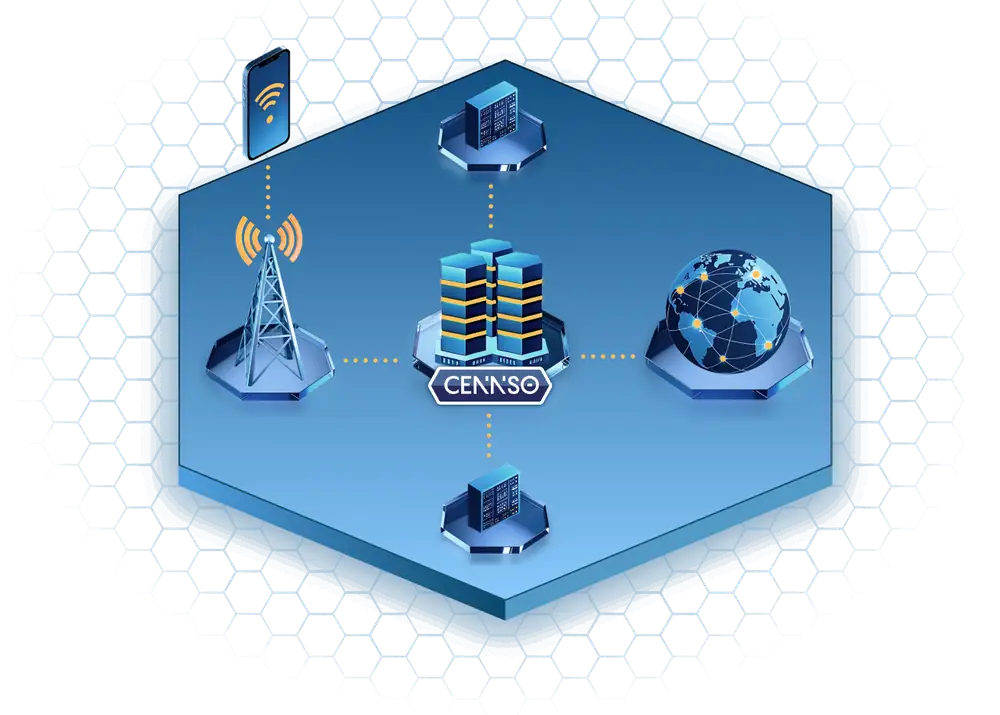
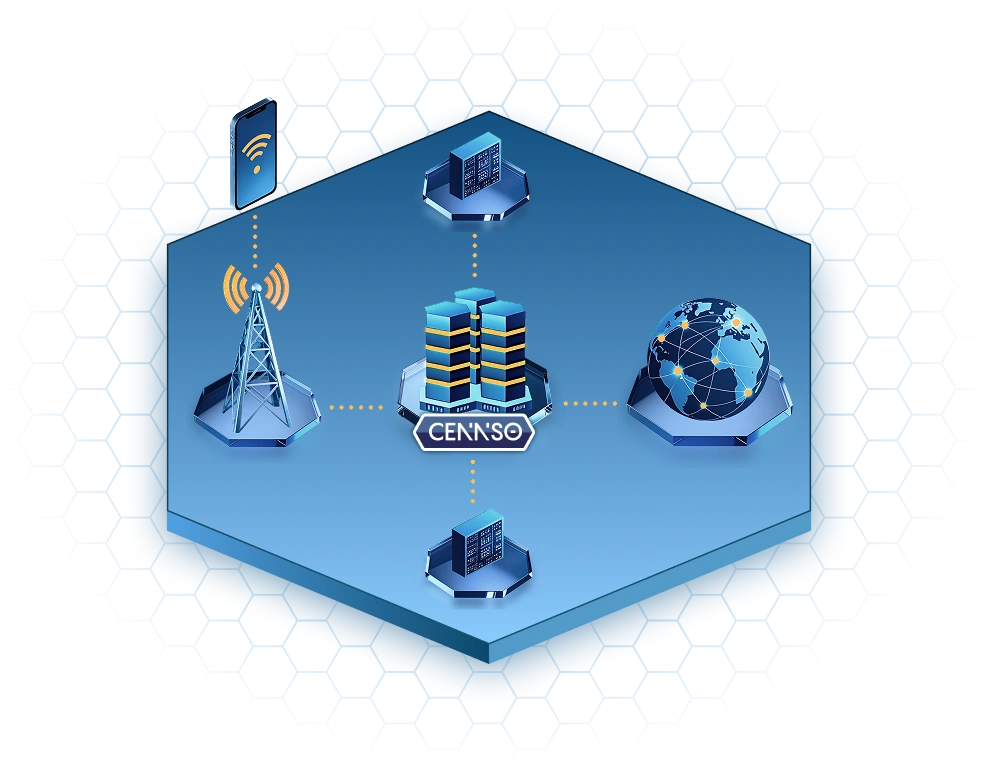
feat: success story headers, nav weight, marquee loop fix
- Logo marquee: track keeps its full width (no flex shrink), so the -50%
  loop is exactly one copy; eager-loaded, fixed-size logos; 90s duration
  keeps the previous on-screen speed
- Header nav items and Sign In in Poppins Regular; light-mode header glow
- Success stories: banner illustration in every story header (20%
  narrower), text and image centred, smaller title, more space before the
  summary; no # anchor icon or hover underline on section titles
- "Join us now" CTA hovers amber like the other CTAs
- Updated hero, banner and story images

Claude-Session: https://claude.ai/code/session_01VGdahn5i6zpxhGjxHSLydx

diff --git a/components/Navigation.tsx b/components/Navigation.tsx
@@ -30,7 +30,7 @@ import type { NavigationLink } from '../contexts'
  */
 const NAV_CTA_CLASS = [
   'inline-flex h-9 items-center gap-[9px] rounded-btn border px-4',
-  'text-lg font-medium transition-colors',
+  'text-lg font-normal transition-colors',
   // Light: #185F99 fill and border, white label; #FF6D12 on hover (owner's
   // call). The label and chevron stay white on both.
   'border-[#185f99] bg-[#185f99] text-white',
@@ -72,9 +72,12 @@ export const Navigation: FunctionComponent<NavigationProps> = ({
     // Dark glow: copied 1:1 from cennso/cloud's TOPBAR_SURFACE (cloud-portal
     // and docs-portal chrome-surfaces.ts) - the same border-border/50 rule
     // under the bar and an ::after hung off its lower edge, one radial
-    // gradient of --glow-blue sourced at the middle of that edge. `relative`
+    // gradient of --glow-blue sourced at the middle of that edge. Light uses
+    // the same glow in #185F99 at 6% (owner's call: 10%, then 7%, then 15%
+    // lighter again). Over the #E1EAF0 page plate it peaks at ~#D6E3ED
+    // under the bar's centre. `relative`
     // makes this div the ::after's containing block.
-    <div className="relative flex flex-row justify-center w-full max-w-screen py-3 bg-white dark:bg-background shadow-none px-6 lg:px-4 dark:border-border/50 dark:border-b dark:after:pointer-events-none dark:after:absolute dark:after:inset-x-0 dark:after:top-full dark:after:h-8 dark:after:bg-[image:radial-gradient(50%_100%_at_50%_0%,hsl(var(--glow-blue)/0.30)_0%,transparent_70%)]">
+    <div className="relative flex flex-row justify-center w-full max-w-screen py-3 bg-white dark:bg-background shadow-none px-6 lg:px-4 dark:border-border/50 dark:border-b after:pointer-events-none after:absolute after:inset-x-0 after:top-full after:h-8 after:bg-[image:radial-gradient(50%_100%_at_50%_0%,rgb(24_95_153/0.06)_0%,transparent_70%)] dark:after:bg-[image:radial-gradient(50%_100%_at_50%_0%,hsl(var(--glow-blue)/0.30)_0%,transparent_70%)]!">
       <nav
         className={`flex flex-row items-center justify-between w-full ${CONTENT_MEASURE} py-2`}
       >
@@ -173,7 +176,7 @@ function topLevelClass(active: boolean): string {
         // (amber) in dark, as before. The 1px #1D75BC text-shadow glow is
         // dark-only: on the light bar it read as a blue outline.
         'text-foreground hover:text-[#ff6d12] dark:hover:text-primary! dark:hover:text-shadow-primary'
-  } xl:rounded-full text-lg font-medium font-sans`
+  } xl:rounded-full text-lg font-normal font-sans`
 }
 
 interface NavigationItemProps {
@@ -206,7 +209,7 @@ function buildChildItems(
   const items = (link.children ?? []).map((child) => (
     <li key={child.link}>
       {renderLeaf({
-        className: `flex items-center gap-3 text-foreground hover:text-primary-foreground! hover:bg-primary! rounded-none lg:rounded-[32px] font-normal lg:font-light text-lg py-1 ${
+        className: `flex items-center gap-3 text-foreground hover:text-primary-foreground! hover:bg-primary! rounded-none lg:rounded-[32px] font-normal text-lg py-1 ${
           asPath.startsWith(child.link)
             ? 'text-primary-foreground! bg-primary! lg:rounded-[32px]'
             : ''
@@ -296,6 +299,7 @@ const NavigationItem: FunctionComponent<NavigationItemProps> = ({
                     <li key={child.link}>
                       <NavigationMenu.Link
                         closeOnClick
+                        className="font-normal"
                         active={asPath === child.link}
                         render={<Link href={child.link} />}
                       >

diff --git a/components/PageHeader.tsx b/components/PageHeader.tsx
@@ -18,6 +18,14 @@ interface PageHeaderProps extends PropsWithChildren {
   breadcrumbs: Breadcrumb[]
   /** A small "< label" link above the title, back to the parent listing. */
   backLink?: { href: string; label: string }
+  /** Beside a banner, centre the text and the image on each other vertically
+   *  instead of pinning both to the top of the row. */
+  alignCenter?: boolean
+  /** Replaces the heading's default size/line-height classes
+   *  (`text-4xl lg:text-5xl lg:leading-[64px]`). */
+  titleClassName?: string
+  /** Space between the heading and the description (default `mt-2`). */
+  descriptionSpacing?: string
 }
 
 export const PageHeader: FunctionComponent<PageHeaderProps> = ({
@@ -26,8 +34,13 @@ export const PageHeader: FunctionComponent<PageHeaderProps> = ({
   background,
   breadcrumbs,
   backLink,
+  alignCenter = false,
+  titleClassName = 'text-4xl lg:text-5xl lg:leading-[64px]',
+  descriptionSpacing = 'mt-2',
   children,
 }) => {
+  const bannerSelf = alignCenter ? 'md:self-center' : 'md:self-start'
+
   return (
     <>
       <BreadcrumbJsonLd
@@ -64,7 +77,9 @@ export const PageHeader: FunctionComponent<PageHeaderProps> = ({
             height, which pushed it 20-35px lower. */}
         <header
           className={`flex flex-col justify-center w-full min-w-0 min-h-[250px] relative z-20 mt-0 py-16 ${
-            background ? 'md:justify-start md:self-start' : ''
+            background
+              ? `${alignCenter ? 'md:justify-center' : 'md:justify-start'} ${bannerSelf}`
+              : ''
           }`}
         >
           {/* {breadcrumbs.length > 1 ? (
@@ -86,14 +101,14 @@ export const PageHeader: FunctionComponent<PageHeaderProps> = ({
               {backLink.label}
             </Link>
           ) : null}
-          <h1 className="font-bold text-4xl lg:text-5xl lg:leading-[64px] text-primary">
+          <h1 className={`font-bold text-primary ${titleClassName}`}>
             {title}
           </h1>
           {description ? (
             <p
               // Capped only beside a banner, where it shares the row; with no
               // banner the lede runs the full column like the title above it.
-              className={`text-base md:text-xl lg:text-[26px] mt-2 text-foreground ${
+              className={`text-base md:text-xl lg:text-[26px] ${descriptionSpacing} text-foreground ${
                 background ? 'max-w-[800px]' : ''
               }`}
             >
@@ -107,7 +122,7 @@ export const PageHeader: FunctionComponent<PageHeaderProps> = ({
           // the image (max-width: 100% from preflight) shrank with it, so a
           // banner never reached the width its page asked for. self-start
           // keeps it level with the heading when the text is the taller side.
-          <div className="hidden md:block md:self-start shrink-0 mt-8 -mb-24 md:mt-0 md:mb-0">
+          <div className={`hidden md:block ${bannerSelf} shrink-0 mt-8 -mb-24 md:mt-0 md:mb-0`}>
             <Image
               {...background}
               alt={background.alt}

diff --git a/pages/success-stories/[success-story].tsx b/pages/success-stories/[success-story].tsx
@@ -58,6 +58,26 @@ const SuccessStoryPage: NextPage<SuccessStoryPageProps> = ({
           },
         ]}
         backLink={{ href: '/success-stories', label: backLinkLabel }}
+        alignCenter
+        // 20% smaller than the default heading (36/48px -> 29/38px) with 10%
+        // less line height (1.11/1.33 -> 1.0/1.2 of the font size).
+        titleClassName="text-[29px] leading-[1] lg:text-[38px] lg:leading-[46px]"
+        // Visible gap title -> summary ~32px: 22px margin plus ~10px of the two
+        // lines' own leading (was ~21px with mt-3).
+        descriptionSpacing="mt-[22px]"
+        // Same banner illustration as the /success-stories index header
+        // (pages/success-stories/index.tsx), drawn 20% narrower (586 -> 469px)
+        // so the story's longer title and summary get a ~20% wider column.
+        background={{
+          src: '/assets/backgrounds/success-stories-illustration.webp',
+          alt: '',
+          'aria-hidden': 'true',
+          width: 586,
+          height: 362,
+          sizes: '(max-width: 767px) 0px, (max-width: 1023px) 256px, 469px',
+          className:
+            'block h-auto w-64 lg:w-[469px] lg:max-w-none lg:-mr-[37px]',
+        }}
       />
 
       {layout === 'old' ? (
@@ -117,7 +137,7 @@ const SuccessStoryPage: NextPage<SuccessStoryPageProps> = ({
           <Container className="mt-12 mb-24">
             <SuccessStoryContext.Provider value={props}>
               <div className="flex flex-row gap-16 h-full w-full">
-                <article className="flex-1 max-w-full lg:max-w-[calc(100%-20rem)] w-full">
+                <article className="flex-1 max-w-full [&_a[aria-label=Anchor]]:hidden lg:max-w-[calc(100%-20rem)] w-full">
                   <div className="flex flex-col gap-12">
                     <Markdown mdxSource={mdxSource} />
 
@@ -158,7 +178,7 @@ const SuccessStoryPage: NextPage<SuccessStoryPageProps> = ({
           <Container className="mt-12 mb-24">
             <SuccessStoryContext.Provider value={props}>
               <div className="flex flex-row gap-16 h-full w-full">
-                <article className="flex-1 max-w-full w-full">
+                <article className="flex-1 max-w-full [&_a[aria-label=Anchor]]:hidden w-full">
                   <div className="flex flex-col gap-12">
                     <Markdown mdxSource={mdxSource} />
 

diff --git a/components/Home/LogoBand.tsx b/components/Home/LogoBand.tsx
@@ -54,7 +54,10 @@ function logoHeight(logo: LogoBandLogo): number {
  *
  * The row renders its logos twice and translates by -50%, so the loop is
  * seamless. The second copy is `aria-hidden` so screen readers hear each logo
- * once. The row pauses on hover and stands still
+ * once. Every logo loads eagerly and has a fixed box (height and width
+ * from its aspect ratio), so the duplicate copy never pops in mid-scroll and
+ * both copies are exactly the same width - otherwise the -50% loop jumps.
+ * The row pauses on hover and stands still
  * under `prefers-reduced-motion` (see `.logo-marquee` in styles/tailwind.css).
  */
 export const LogoBand: FunctionComponent<LogoBandProps> = ({
@@ -63,7 +66,7 @@ export const LogoBand: FunctionComponent<LogoBandProps> = ({
 }) => {
   return (
     <div className={`logo-marquee flex w-full overflow-hidden ${className}`}>
-      <div className="logo-marquee-track flex w-max">
+      <div className="logo-marquee-track flex w-max shrink-0">
         {[0, 1].map((copy) => (
           <ul
             key={copy}
@@ -84,9 +87,15 @@ export const LogoBand: FunctionComponent<LogoBandProps> = ({
                     alt={copy === 1 ? '' : logo.name}
                     width={logo.width}
                     height={logo.height}
+                    loading="eager"
                     sizes={`(min-width: 768px) ${width}px, ${Math.ceil(width * 0.75)}px`}
-                    style={{ '--logo-h': `${height}px` } as CSSProperties}
-                    className={`h-[calc(var(--logo-h)*0.75)] w-auto md:h-(--logo-h) ${LOGO_TONE}`}
+                    style={
+                      {
+                        '--logo-h': `${height}px`,
+                        '--logo-w': `${(height * logo.width) / logo.height}px`,
+                      } as CSSProperties
+                    }
+                    className={`h-[calc(var(--logo-h)*0.75)] w-[calc(var(--logo-w)*0.75)] md:h-(--logo-h) md:w-(--logo-w) ${LOGO_TONE}`}
                   />
                 </li>
               )

diff --git a/styles/tailwind.css b/styles/tailwind.css
@@ -238,7 +238,12 @@ a {
 }
 
 .logo-marquee-track {
-  animation: logo-marquee 35s linear infinite;
+  /* full width of both copies, never shrunk by the flex parent - otherwise
+     -50% is less than one copy and the loop jumps */
+  flex-shrink: 0;
+  width: max-content;
+  animation: logo-marquee 90s linear infinite;
+  will-change: transform;
 }
 
 .logo-marquee:hover .logo-marquee-track {

diff --git a/components/Markdown/components/CallToAction.tsx b/components/Markdown/components/CallToAction.tsx
@@ -42,7 +42,7 @@ export const CallToAction: FunctionComponent<CallToActionProps> = ({
       ) : null}
       <Button
         variant="cta"
-        className={CTA_ACTION}
+        className={`${CTA_ACTION} transition-colors hover:bg-[#ffb31b] hover:text-[#081927]`}
         render={(props) => (
           <Link
             {...props}

diff --git a/components/Markdown/Markdown.tsx b/components/Markdown/Markdown.tsx
@@ -138,7 +138,7 @@ const Heading: FunctionComponent<
         <Hash className="p-[0.3rem] stroke-2" />
       </Link>
       <div
-        className="hover:underline cursor-pointer"
+        className="cursor-pointer"
         onClick={() => router.push(`#${id}`)}
       >
         {children}
